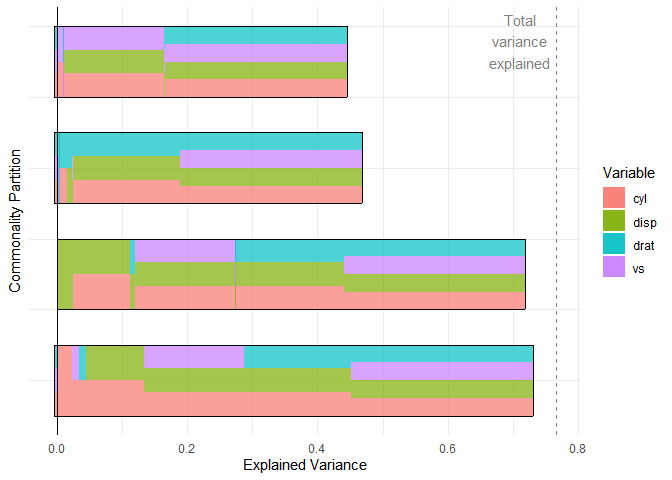
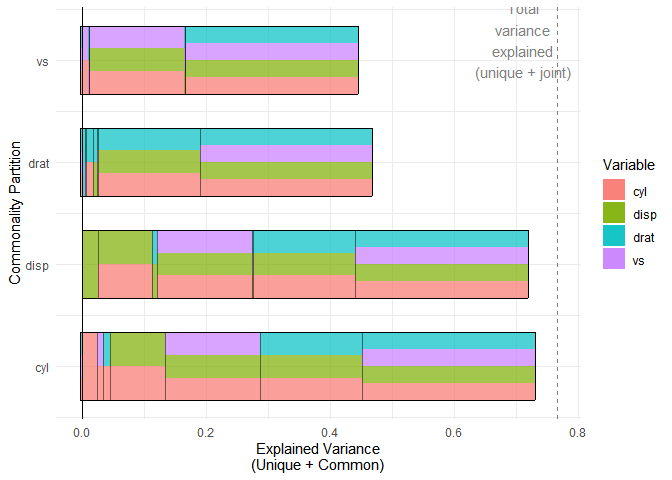
feat(ggcommonality): tweaks to bar plot

diff --git a/docs/index.html b/docs/index.html
@@ -55,6 +55,7 @@
 
       </header><div class="row">
   <div class="contents col-md-9">
+
 <div class="section level1">
 <div class="page-header"><h1 id="ggcommonality">ggcommonality<a class="anchor" aria-label="anchor" href="#ggcommonality"></a>
 </h1></div>
@@ -62,7 +63,7 @@
 <!-- badges: end -->
 <p>The goal of ggcommonality is to produce bar plots of unique and joint effects from commonality analyses. The function outputs a bar plots with unique and common effects for each commonality partition.</p>
 <p>The function is scalable to multiple variables (at the expense of interpretability) and takes formula notation for input, calling on the <code>yhat</code> package (Nimon, Oswald, and Roberts. 2023).</p>
-<p>This function builds bar plots in the style of those appearing in my lab’s work applying commonality analysis to the compositions of Bach and Chopin (Anderson and Schutz 2022).</p>
+<p>This function builds bar plots in the style of those appearing in the <a href="https://maplelab.net" class="external-link">MAPLE Lab’s</a> work applying commonality analysis to the compositions of Bach and Chopin (Anderson and Schutz 2022).</p>
 <p>This package is very new, so its functionality is quite limited.</p>
 <p>Partitions are plotted sequentially in alphabetical order, starting with unique effects and are built iteratively with joint effects at higher orders on top. This means there are redundancies between partitions, and the plot can be deceptive if you don’t take the total explained variance into account.</p>
 <div class="section level2">
@@ -94,18 +95,17 @@
 <span>  </span>
 <span></span>
 <span><span class="fu"><a href="https://rdrr.io/r/base/print.html" class="external-link">print</a></span><span class="op">(</span><span class="va">p</span><span class="op">)</span></span></code></pre></div>
-<p><img src="reference/figures/README-example-1.png" width="100%"> The plot is customizable and can be used with ggprotos.</p>
+<p><img src="reference/figures/README-example-1.png" width="100%"></p>
+<p>The plot is customizable and can be used with ggprotos.</p>
 <div class="sourceCode" id="cb3"><pre class="downlit sourceCode r">
 <code class="sourceCode R"><span><span class="va">p</span> <span class="op">+</span> </span>
 <span>  <span class="fu"><a href="https://ggplot2.tidyverse.org/reference/coord_flip.html" class="external-link">coord_flip</a></span><span class="op">(</span><span class="op">)</span> <span class="op">+</span></span>
 <span>    <span class="fu"><a href="https://ggplot2.tidyverse.org/reference/geom_abline.html" class="external-link">geom_hline</a></span><span class="op">(</span>yintercept <span class="op">=</span> <span class="fl">0.7652</span>,</span>
 <span>                      linetype <span class="op">=</span> <span class="st">"dashed"</span>,</span>
 <span>                      color <span class="op">=</span> <span class="st">"grey50"</span><span class="op">)</span> <span class="op">+</span> <span class="co"># adding total explained variance</span></span>
-<span>  <span class="fu"><a href="https://ggplot2.tidyverse.org/reference/annotate.html" class="external-link">annotate</a></span><span class="op">(</span>geom<span class="op">=</span><span class="st">"text"</span>, x<span class="op">=</span><span class="fl">7.8</span>, y<span class="op">=</span><span class="fl">.71</span>, label<span class="op">=</span><span class="st">"Total\nvariance\nexplained"</span>,</span>
+<span>  <span class="fu"><a href="https://ggplot2.tidyverse.org/reference/annotate.html" class="external-link">annotate</a></span><span class="op">(</span>geom<span class="op">=</span><span class="st">"text"</span>, x<span class="op">=</span><span class="fl">7.8</span>, y<span class="op">=</span><span class="fl">.71</span>, label<span class="op">=</span><span class="st">"Total\nvariance\nexplained\n(unique + joint)"</span>,</span>
 <span>              color<span class="op">=</span><span class="st">"grey50"</span><span class="op">)</span> <span class="op">+</span></span>
-<span>  <span class="fu"><a href="https://ggplot2.tidyverse.org/reference/ggtheme.html" class="external-link">theme_minimal</a></span><span class="op">(</span><span class="op">)</span> <span class="op">+</span></span>
-<span>  <span class="fu"><a href="https://ggplot2.tidyverse.org/reference/theme.html" class="external-link">theme</a></span><span class="op">(</span>axis.text.y <span class="op">=</span> <span class="fu"><a href="https://ggplot2.tidyverse.org/reference/element.html" class="external-link">element_blank</a></span><span class="op">(</span><span class="op">)</span>,</span>
-<span>        axis.ticks.y <span class="op">=</span> <span class="fu"><a href="https://ggplot2.tidyverse.org/reference/element.html" class="external-link">element_blank</a></span><span class="op">(</span><span class="op">)</span><span class="op">)</span></span></code></pre></div>
+<span>  <span class="fu"><a href="https://ggplot2.tidyverse.org/reference/ggtheme.html" class="external-link">theme_minimal</a></span><span class="op">(</span><span class="op">)</span></span></code></pre></div>
 <p><img src="reference/figures/README-unnamed-chunk-2-1.png" width="100%"></p>
 <div class="sourceCode" id="cb4"><pre class="downlit sourceCode r">
 <code class="sourceCode R"><span><span class="va">p</span> <span class="op">+</span> <span class="fu"><a href="https://ggplot2.tidyverse.org/reference/scale_manual.html" class="external-link">scale_fill_manual</a></span><span class="op">(</span>values <span class="op">=</span> <span class="fu"><a href="https://rdrr.io/r/base/c.html" class="external-link">c</a></span><span class="op">(</span><span class="st">"#7fc97f"</span>,</span>
@@ -116,7 +116,7 @@
 <span>  <span class="fu"><a href="https://ggplot2.tidyverse.org/reference/geom_abline.html" class="external-link">geom_hline</a></span><span class="op">(</span>yintercept <span class="op">=</span> <span class="fl">0.7652</span>,</span>
 <span>                      linetype <span class="op">=</span> <span class="st">"dashed"</span>,</span>
 <span>                      color <span class="op">=</span> <span class="st">"grey50"</span><span class="op">)</span> <span class="op">+</span> <span class="co"># adding total explained variance</span></span>
-<span>  <span class="fu"><a href="https://ggplot2.tidyverse.org/reference/annotate.html" class="external-link">annotate</a></span><span class="op">(</span>geom<span class="op">=</span><span class="st">"text"</span>, x<span class="op">=</span><span class="fl">5</span>, y<span class="op">=</span><span class="fl">.79</span>, label<span class="op">=</span><span class="st">"Total variance explained"</span>,</span>
+<span>  <span class="fu"><a href="https://ggplot2.tidyverse.org/reference/annotate.html" class="external-link">annotate</a></span><span class="op">(</span>geom<span class="op">=</span><span class="st">"text"</span>, x<span class="op">=</span><span class="fl">5</span>, y<span class="op">=</span><span class="fl">.79</span>, label<span class="op">=</span><span class="st">"Total variance explained\n(unique + joint)"</span>,</span>
 <span>              color<span class="op">=</span><span class="st">"grey50"</span><span class="op">)</span></span></code></pre></div>
 <p><img src="reference/figures/README-unnamed-chunk-3-1.png" width="100%"></p>
 <p>We can compare the bar plot output to the unique and common effects from the model:</p>
@@ -235,13 +235,13 @@
 <span><span class="co">#&gt; 6                1 0.0451 0.1335</span></span>
 <span><span class="co">#&gt; </span></span>
 <span><span class="co">#&gt; [[2]]</span></span>
-<span><span class="co">#&gt; # A tibble: 4 × 5</span></span>
-<span><span class="co">#&gt;   category y_min y_max x_min x_max</span></span>
-<span><span class="co">#&gt;   &lt;chr&gt;    &lt;dbl&gt; &lt;dbl&gt; &lt;dbl&gt; &lt;dbl&gt;</span></span>
-<span><span class="co">#&gt; 1 cyl          0 0.730   2.5   3.5</span></span>
-<span><span class="co">#&gt; 2 disp         0 0.718   4     5  </span></span>
-<span><span class="co">#&gt; 3 drat         0 0.468   5.5   6.5</span></span>
-<span><span class="co">#&gt; 4 vs           0 0.445   7     8  </span></span>
+<span><span class="co">#&gt; # A tibble: 4 × 6</span></span>
+<span><span class="co">#&gt;   category y_min y_max x_min x_max x_mid</span></span>
+<span><span class="co">#&gt;   &lt;chr&gt;    &lt;dbl&gt; &lt;dbl&gt; &lt;dbl&gt; &lt;dbl&gt; &lt;dbl&gt;</span></span>
+<span><span class="co">#&gt; 1 cyl          0 0.730   2.5   3.5   3  </span></span>
+<span><span class="co">#&gt; 2 disp         0 0.718   4     5     4.5</span></span>
+<span><span class="co">#&gt; 3 drat         0 0.468   5.5   6.5   6  </span></span>
+<span><span class="co">#&gt; 4 vs           0 0.445   7     8     7.5</span></span>
 <span><span class="co">#&gt; </span></span>
 <span><span class="co">#&gt; [[3]]</span></span>
 <span><span class="co">#&gt;            names    vals total category plot_order 4 n_cues cue value    x_min</span></span>
@@ -260,17 +260,23 @@
 <span><span class="co">#&gt; 5 4.500000                2     0  0.0000</span></span>
 <span><span class="co">#&gt; </span></span>
 <span><span class="co">#&gt; [[4]]</span></span>
-<span><span class="co">#&gt; # A tibble: 4 × 5</span></span>
-<span><span class="co">#&gt;   category   y_min   y_max x_min x_max</span></span>
-<span><span class="co">#&gt;   &lt;chr&gt;      &lt;dbl&gt;   &lt;dbl&gt; &lt;dbl&gt; &lt;dbl&gt;</span></span>
-<span><span class="co">#&gt; 1 cyl      -0.0038 -0.0038   2.5   3.5</span></span>
-<span><span class="co">#&gt; 2 disp      0       0        4     5  </span></span>
-<span><span class="co">#&gt; 3 drat     -0.0038 -0.0038   5.5   6.5</span></span>
-<span><span class="co">#&gt; 4 vs       -0.0038 -0.0038   7     8</span></span></code></pre></div>
+<span><span class="co">#&gt; # A tibble: 4 × 6</span></span>
+<span><span class="co">#&gt;   category   y_min   y_max x_min x_max x_mid</span></span>
+<span><span class="co">#&gt;   &lt;chr&gt;      &lt;dbl&gt;   &lt;dbl&gt; &lt;dbl&gt; &lt;dbl&gt; &lt;dbl&gt;</span></span>
+<span><span class="co">#&gt; 1 cyl      -0.0038 -0.0038   2.5   3.5   3  </span></span>
+<span><span class="co">#&gt; 2 disp      0       0        4     5     4.5</span></span>
+<span><span class="co">#&gt; 3 drat     -0.0038 -0.0038   5.5   6.5   6  </span></span>
+<span><span class="co">#&gt; 4 vs       -0.0038 -0.0038   7     8     7.5</span></span></code></pre></div>
 <div class="section level3">
 <h3 id="future-updates">Future Updates<a class="anchor" aria-label="anchor" href="#future-updates"></a>
 </h3>
 <p>In future versions I will focus on (1) Soon: adding a bar for the total explained variance. (2) Soonish: Making generic version of ggcommonality which does not depend on yhat. (3) Later: Adding option to overplot confidence interval of partition effects (as in Anderson &amp; Schutz, 2022).</p>
+</div>
+</div>
+</div>
+<div class="section level1">
+<h1 id="references">References<a class="anchor" aria-label="anchor" href="#references"></a>
+</h1>
 <div id="refs" class="references csl-bib-body hanging-indent" entry-spacing="0">
 <div id="ref-anderson2022exploring" class="csl-entry">
 Anderson, Cameron J, and Michael Schutz. 2022. “Exploring Historic Changes in Musical Communication: Deconstructing Emotional Cues in Preludes by Bach and Chopin.” <em>Psychology of Music</em> 50 (5): 1424–42.
@@ -280,8 +286,7 @@ Nimon, Kim, Fred Oswald, and J. Kyle Roberts. 2023. <em>Yhat: Interpreting Regre
 </div>
 </div>
 </div>
-</div>
-</div>
+
   </div>
 
   <div class="col-md-3 hidden-xs hidden-sm" id="pkgdown-sidebar">

diff --git a/README.md b/README.md
@@ -14,9 +14,9 @@ The function is scalable to multiple variables (at the expense of
 interpretability) and takes formula notation for input, calling on the
 `yhat` package (Nimon, Oswald, and Roberts. 2023).
 
-This function builds bar plots in the style of those appearing in my
-lab’s work applying commonality analysis to the compositions of Bach and
-Chopin (Anderson and Schutz 2022).
+This function builds bar plots in the style of those appearing in the
+[MAPLE Lab’s](https://maplelab.net) work applying commonality analysis
+to the compositions of Bach and Chopin (Anderson and Schutz 2022).
 
 This package is very new, so its functionality is quite limited.
 
@@ -59,8 +59,9 @@ p <- ggcommonality(yhat_model)
 print(p)
 ```
 
-<img src="man/figures/README-example-1.png" width="100%" /> The plot is
-customizable and can be used with ggprotos.
+<img src="man/figures/README-example-1.png" width="100%" />
+
+The plot is customizable and can be used with ggprotos.
 
 ``` r
 p + 
@@ -68,11 +69,9 @@ p +
     geom_hline(yintercept = 0.7652,
                       linetype = "dashed",
                       color = "grey50") + # adding total explained variance
-  annotate(geom="text", x=7.8, y=.71, label="Total\nvariance\nexplained",
+  annotate(geom="text", x=7.8, y=.71, label="Total\nvariance\nexplained\n(unique + joint)",
               color="grey50") +
-  theme_minimal() +
-  theme(axis.text.y = element_blank(),
-        axis.ticks.y = element_blank())
+  theme_minimal()
 ```
 
 <img src="man/figures/README-unnamed-chunk-2-1.png" width="100%" />
@@ -86,7 +85,7 @@ p + scale_fill_manual(values = c("#7fc97f",
   geom_hline(yintercept = 0.7652,
                       linetype = "dashed",
                       color = "grey50") + # adding total explained variance
-  annotate(geom="text", x=5, y=.79, label="Total variance explained",
+  annotate(geom="text", x=5, y=.79, label="Total variance explained\n(unique + joint)",
               color="grey50")
 ```
 
@@ -149,13 +148,13 @@ lapply(df_commonality,
 #> 6                1 0.0451 0.1335
 #> 
 #> [[2]]
-#> # A tibble: 4 × 5
-#>   category y_min y_max x_min x_max
-#>   <chr>    <dbl> <dbl> <dbl> <dbl>
-#> 1 cyl          0 0.730   2.5   3.5
-#> 2 disp         0 0.718   4     5  
-#> 3 drat         0 0.468   5.5   6.5
-#> 4 vs           0 0.445   7     8  
+#> # A tibble: 4 × 6
+#>   category y_min y_max x_min x_max x_mid
+#>   <chr>    <dbl> <dbl> <dbl> <dbl> <dbl>
+#> 1 cyl          0 0.730   2.5   3.5   3  
+#> 2 disp         0 0.718   4     5     4.5
+#> 3 drat         0 0.468   5.5   6.5   6  
+#> 4 vs           0 0.445   7     8     7.5
 #> 
 #> [[3]]
 #>            names    vals total category plot_order 4 n_cues cue value    x_min
@@ -174,13 +173,13 @@ lapply(df_commonality,
 #> 5 4.500000                2     0  0.0000
 #> 
 #> [[4]]
-#> # A tibble: 4 × 5
-#>   category   y_min   y_max x_min x_max
-#>   <chr>      <dbl>   <dbl> <dbl> <dbl>
-#> 1 cyl      -0.0038 -0.0038   2.5   3.5
-#> 2 disp      0       0        4     5  
-#> 3 drat     -0.0038 -0.0038   5.5   6.5
-#> 4 vs       -0.0038 -0.0038   7     8
+#> # A tibble: 4 × 6
+#>   category   y_min   y_max x_min x_max x_mid
+#>   <chr>      <dbl>   <dbl> <dbl> <dbl> <dbl>
+#> 1 cyl      -0.0038 -0.0038   2.5   3.5   3  
+#> 2 disp      0       0        4     5     4.5
+#> 3 drat     -0.0038 -0.0038   5.5   6.5   6  
+#> 4 vs       -0.0038 -0.0038   7     8     7.5
 ```
 
 ### Future Updates
@@ -190,6 +189,8 @@ explained variance. (2) Soonish: Making generic version of ggcommonality
 which does not depend on yhat. (3) Later: Adding option to overplot
 confidence interval of partition effects (as in Anderson & Schutz,
 2022).
+
+# References
 
 <div id="refs" class="references csl-bib-body hanging-indent"
 entry-spacing="0">
